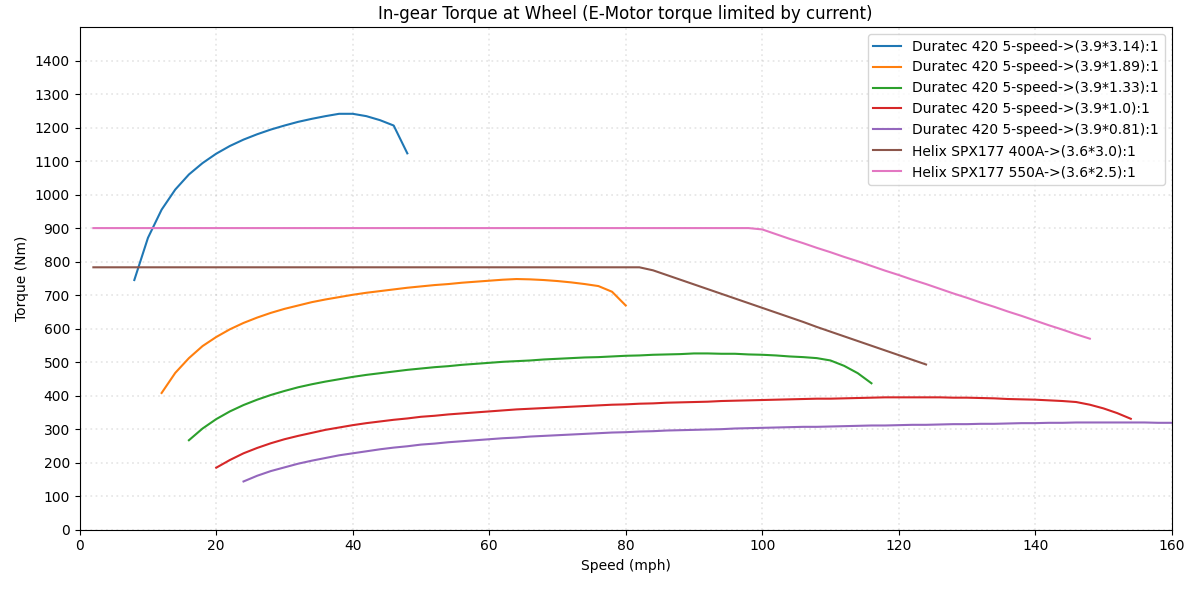
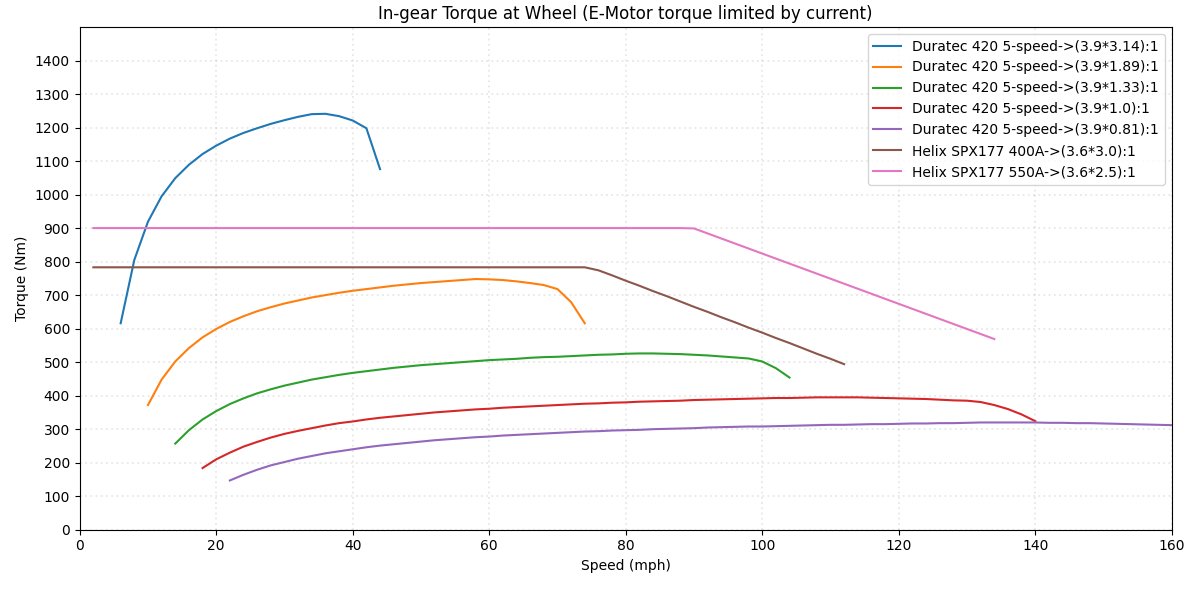
More accurate tyre circumference calculation

diff --git a/CompareTorques.py b/CompareTorques.py
@@ -3,8 +3,10 @@ import pprint
 import numpy as np
 import matplotlib.pyplot as plt
 
-# Seven wheel circumference
-WheelCircumference = 2.0
+# Seven wheel circumference -> pi * (15_inch_rims * inch_per_m) + (tyre_width_meters * tyre_profile * 2_for_each_side)
+#WheelCircumference = 2.0
+WheelCircumference = 3.14159 * ((15 * 0.0254) + (0.195 * 0.5 * 2.0))
+print(f"Tyre Circumference: {WheelCircumference}m")
 
 # A couple of constants to work out conversions between miles-per-hour and km-per-hour
 km_per_mi = 1.60934
